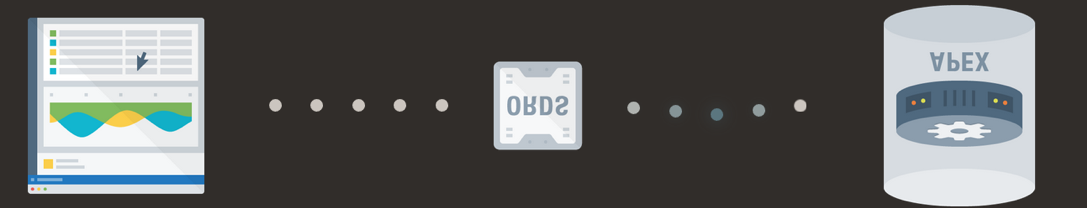
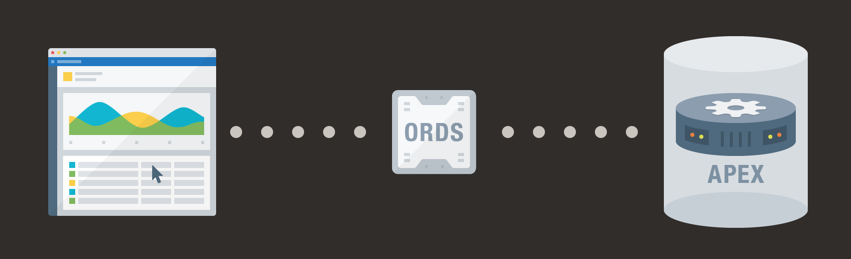
tweaks and image fix

Changed region(s): [[0.0, 0.0, 0.9777, 1.0]]

diff --git a/content/blog/2020/2020-07-23-introducing-oracle-apex/index.md b/content/blog/2020/2020-07-23-introducing-oracle-apex/index.md
@@ -28,7 +28,7 @@ low-code development&mdash;a visual development method using drag-and-drop eleme
 
 ### Introduction
 
-Apex enables you to adapt to changing requirements and empowers developers and
+APEX enables you to adapt to changing requirements and empowers developers and
 your entire organization to be a part of the solution quickly.
 
 {{<image src="Picture1.png" title="" alt="">}}
@@ -71,8 +71,10 @@ Oracle APEX uses a simple three-tier architecture where requests are sent from
 the browser, through a web server and then finally to the database. APEX executes
 all processing, data manipulation, and business logic in the database. This
 architecture guarantees zero-latency data access, top performance, and scalability.
-The following diagram highlights the process flow when a user requests or submits
-a page in Oracle APEX.
+
+When a user submits a page from APEX, the process flows from the page through
+Oracle REST Data Services (ORDS) to APEX and back again, as shown in the
+following image.
 
 {{<image src="Picture2.png" title="" alt="">}}
 
